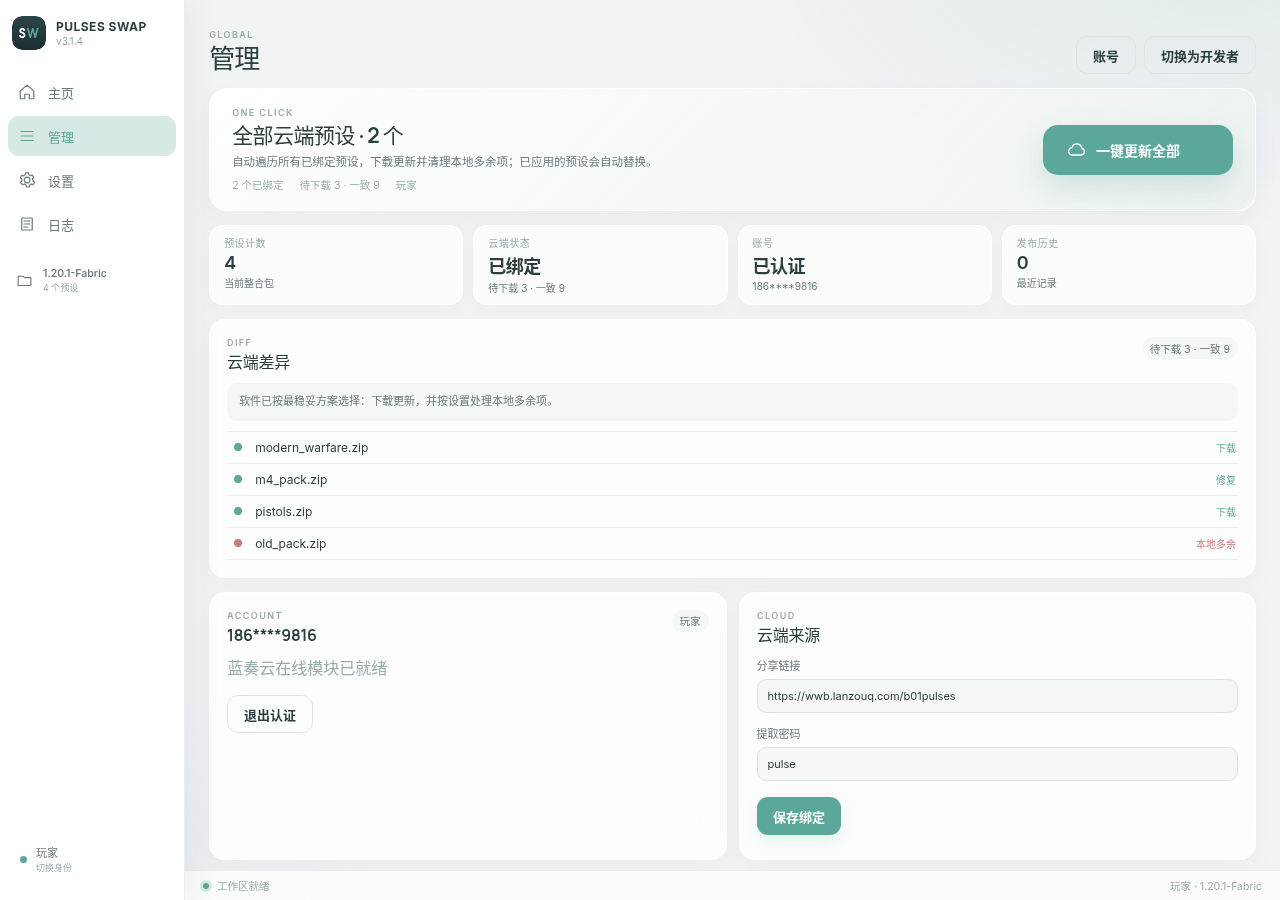
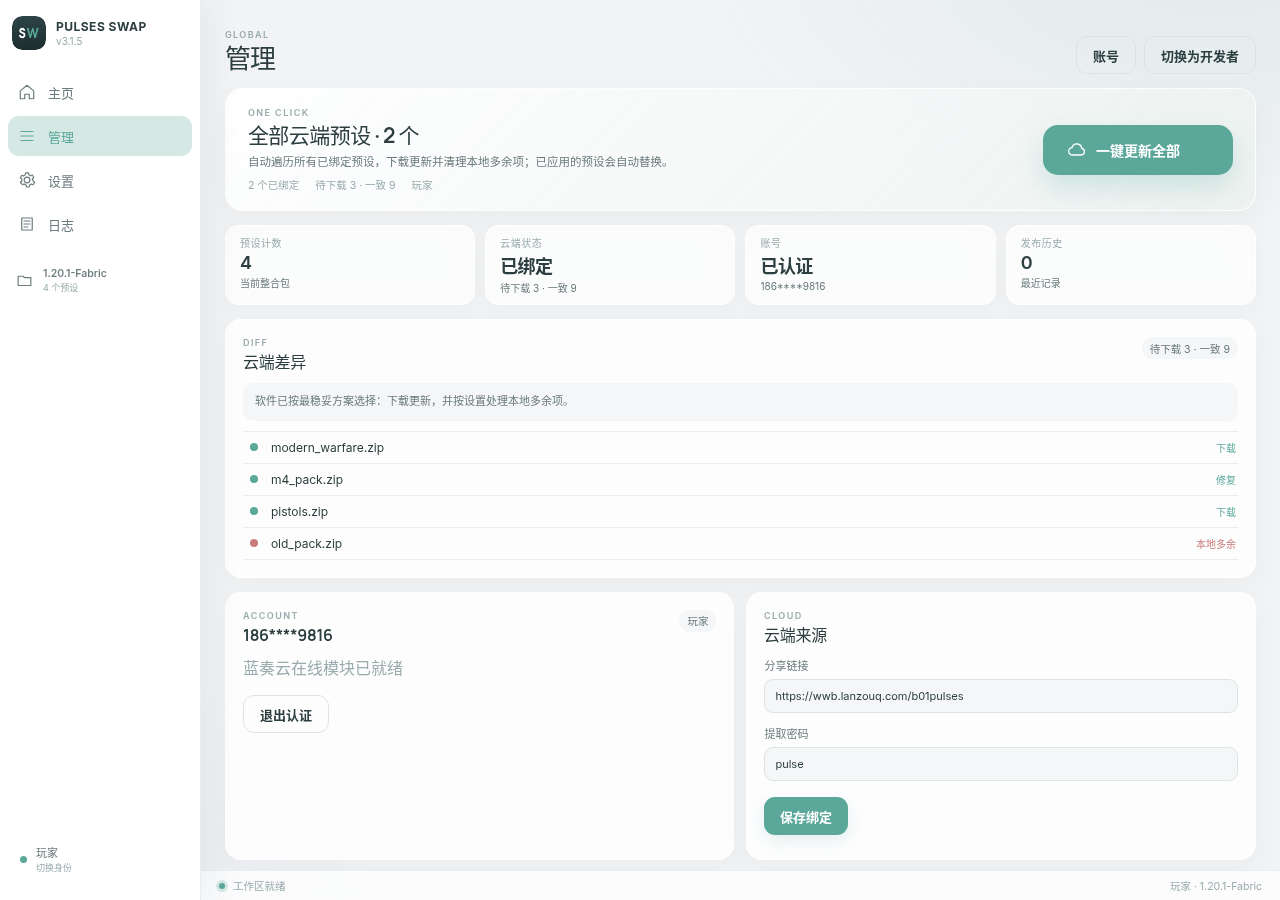
fix(3.1.4): 拖入兜底、侧栏展开与缺失控件补齐

diff --git a/src/pulses/core/paths.py b/src/pulses/core/paths.py
@@ -45,7 +45,7 @@ except ImportError:
 
 
 # ==================== 常量定义 ====================
-VERSION = "3.1.4"
+VERSION = "3.1.5"
 AUTHOR = "NimShade"
 PROJECT_NAME = "Pulses Swap"
 

diff --git a/README.md b/README.md
@@ -1,6 +1,6 @@
 # Pulses Swap 3.0
 
-TACZ 枪包一键切换工具 · **PyWebView + React** 版 · v3.1.4
+TACZ 枪包一键切换工具 · **PyWebView + React** 版 · v3.1.5
 
 Pulses Swap 把 Minecraft 的 TACZ 枪包按「预设」分组：拖入整合包、选择预设、
 一键替换，也可以把预设发布到蓝奏云，让玩家增量同步。
